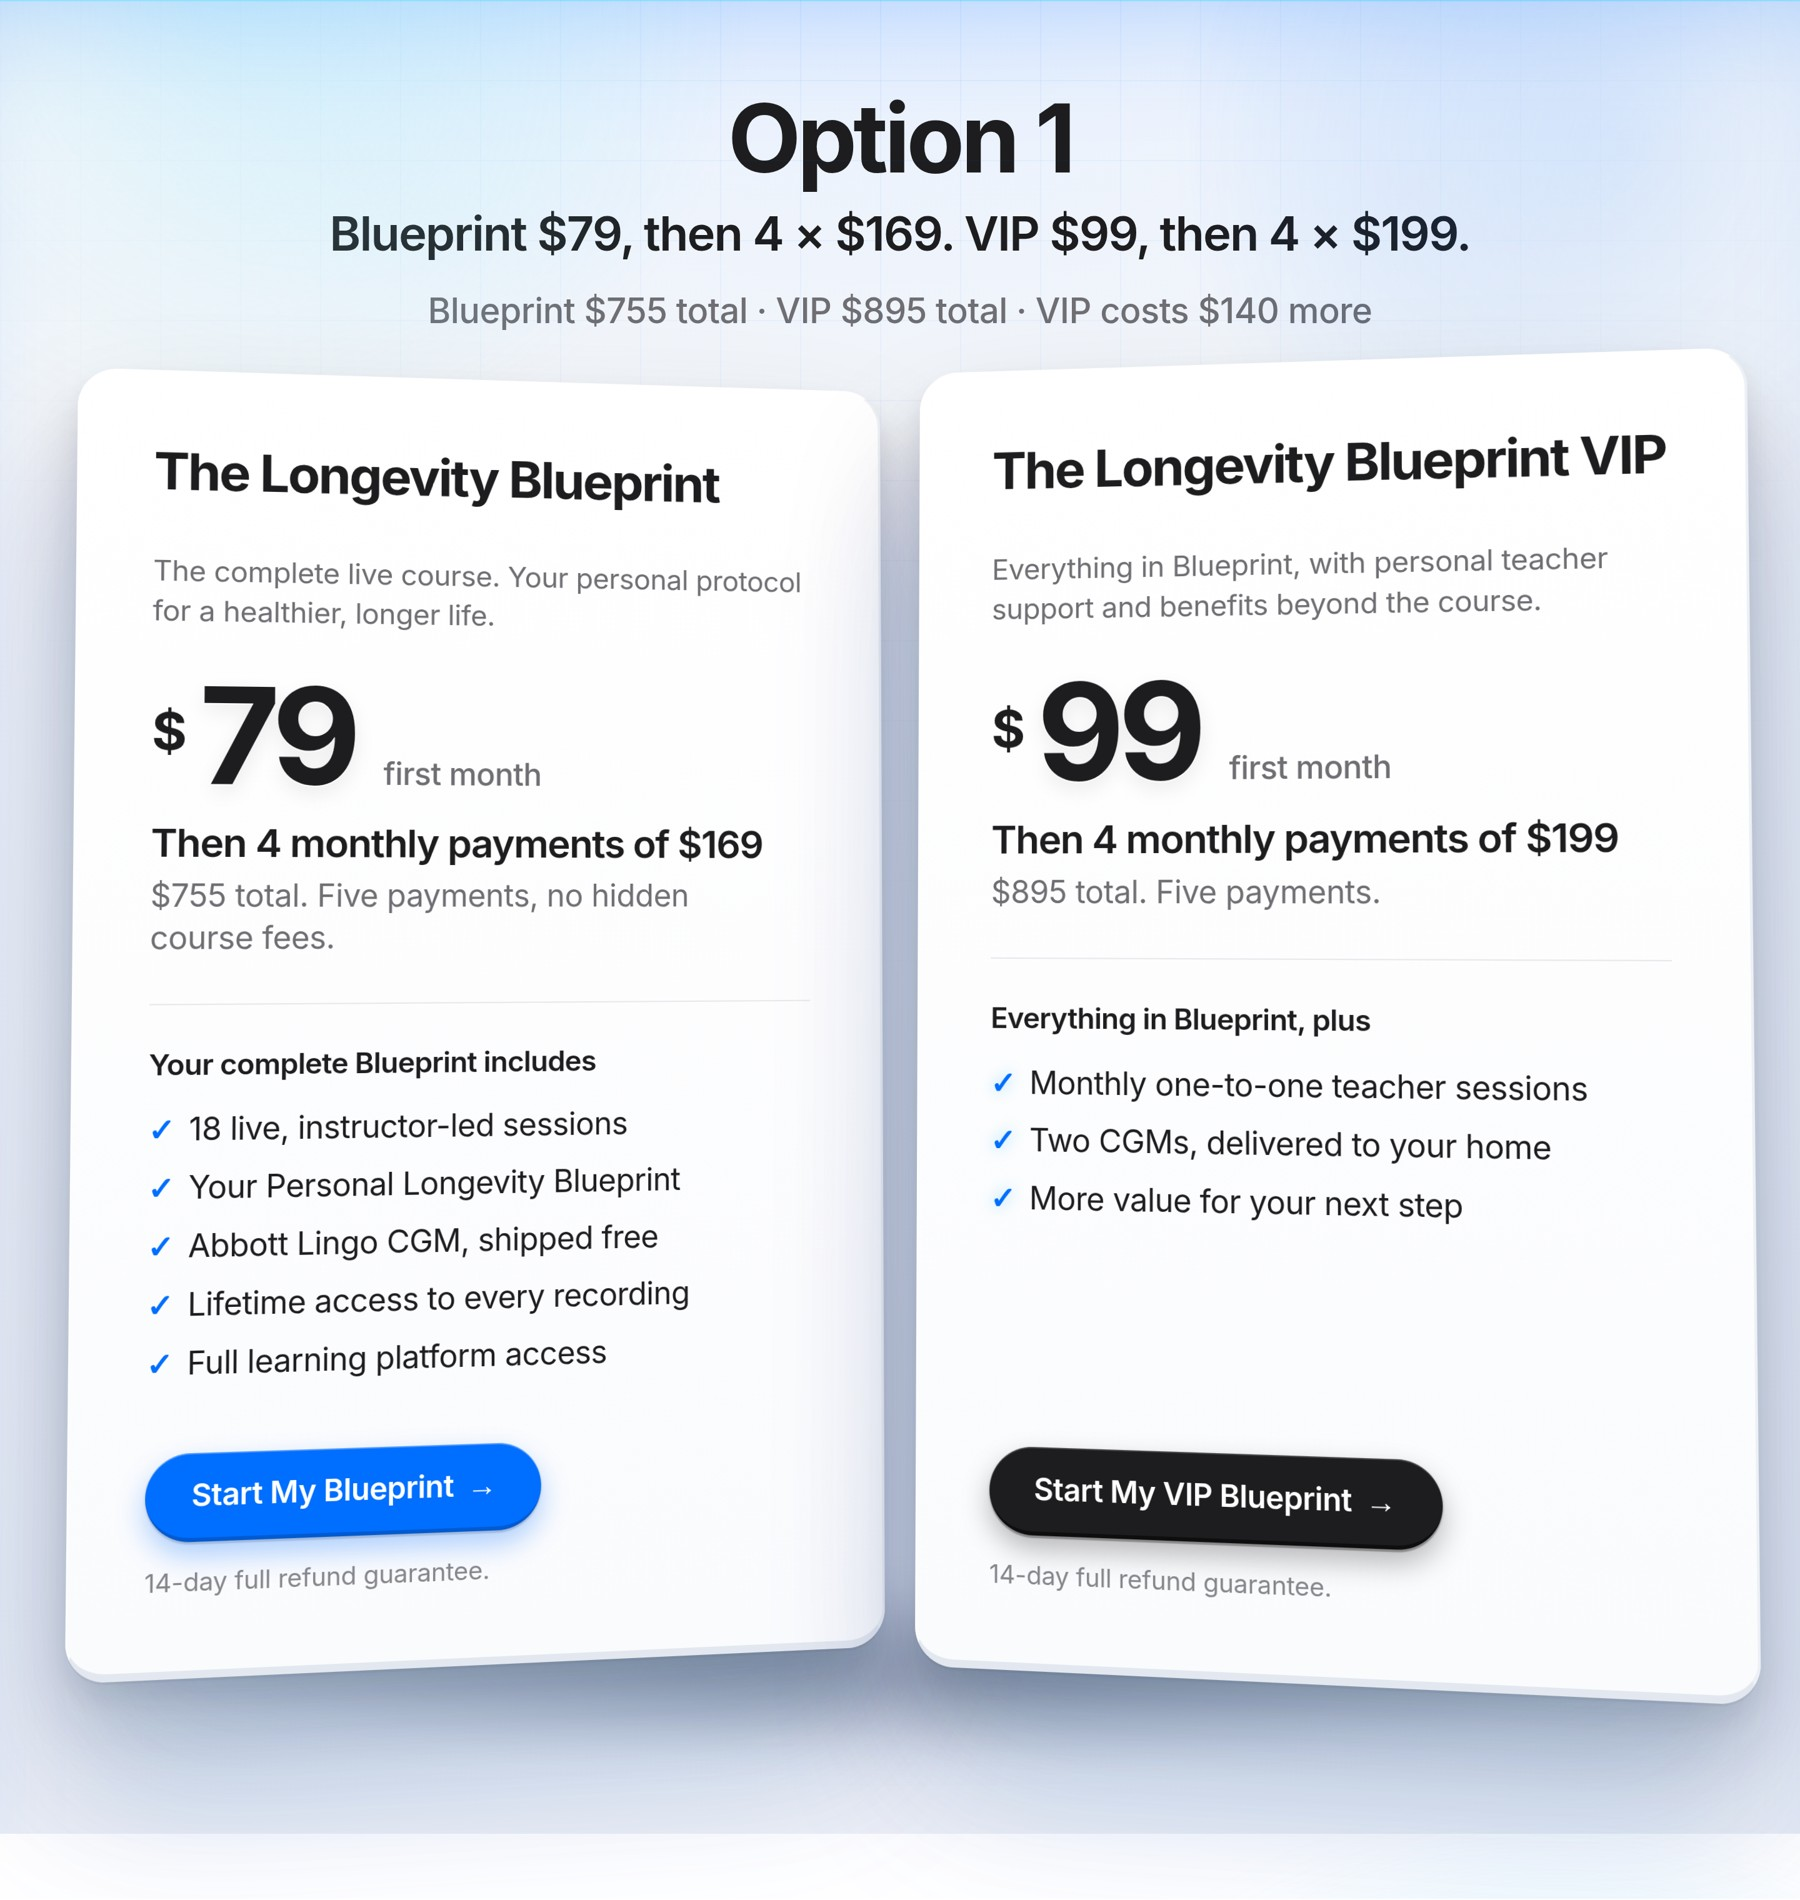
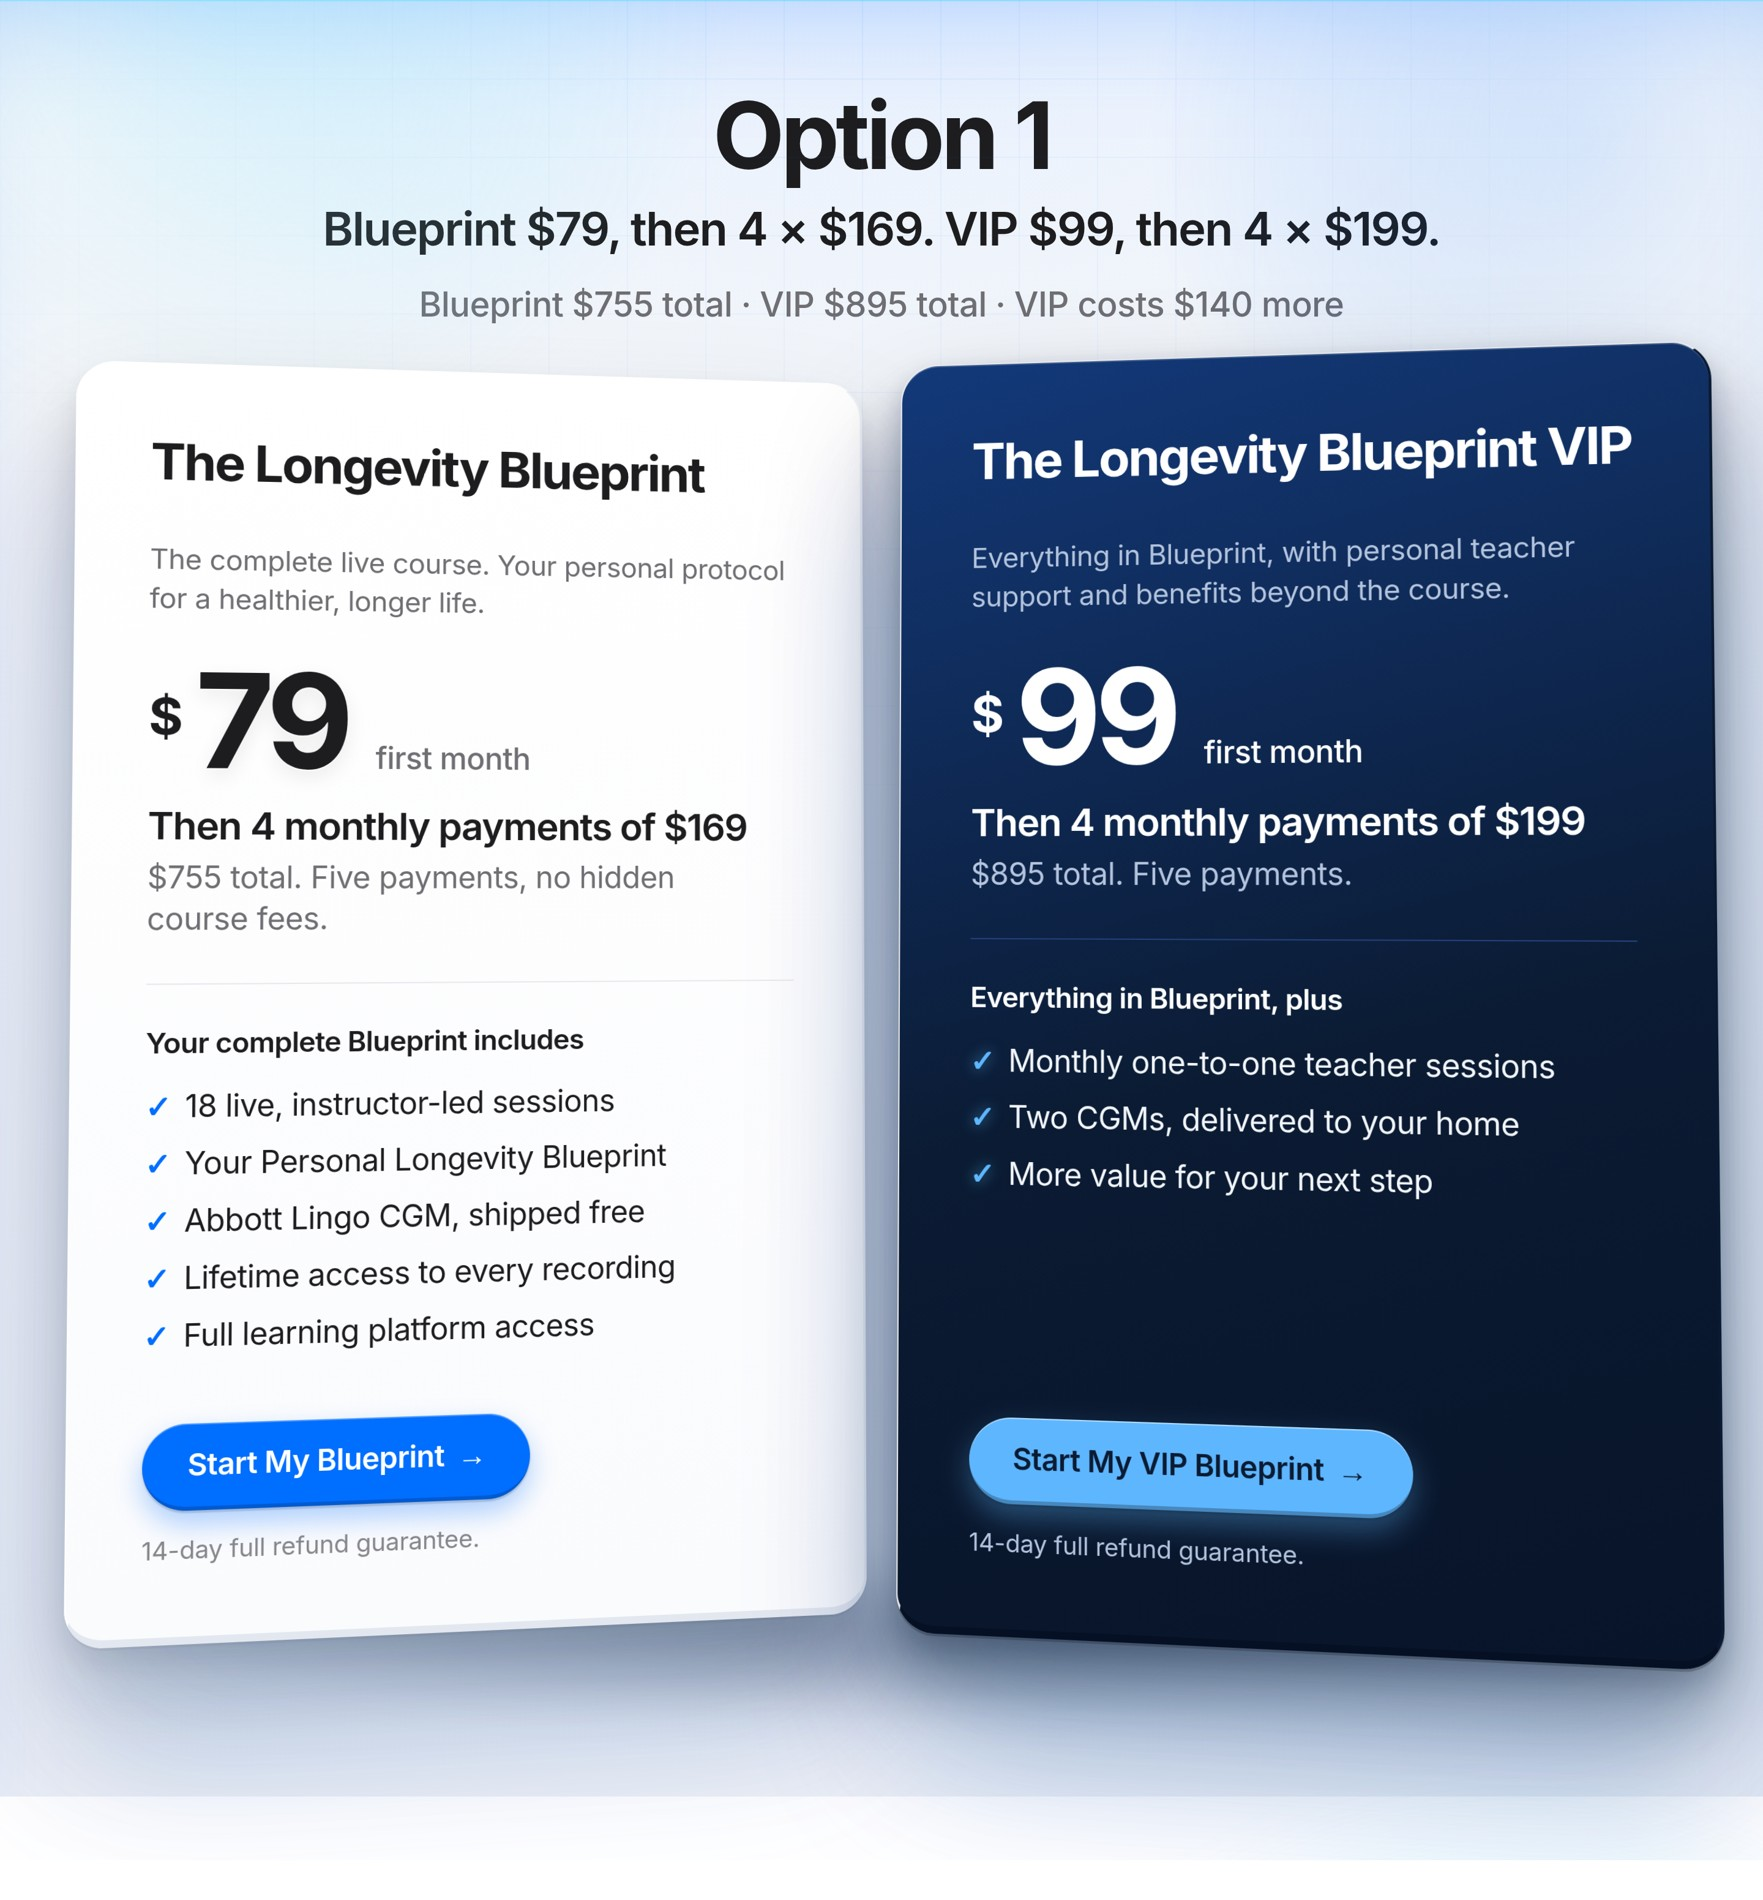
VIP card navy, Standard white, 3D kept

diff --git a/options/index.html b/options/index.html
@@ -1780,7 +1780,7 @@ body.lla-em-open #et-bumpyard-widget{display:none!important}
   html body#lpRoot #hero .pdp-cine-sub{font-family:'Inter',sans-serif!important;font-style:normal!important;text-transform:none!important}
 }
 </style>
-<link rel="stylesheet" href="../relaunch.css?v=vip199"><style id="opt-only">body>*:not(section.bp-offer):not(script):not(style){display:none!important}body>section.bp-offer{display:block!important}.bp-foot{display:none!important}.opt-sum{font-size:clamp(22px,2.2vw,30px)!important;font-weight:700;color:#0B1B33;margin:18px auto 0;text-align:center;letter-spacing:-.4px;max-width:none!important;white-space:nowrap}.bp-heading h2 em{display:block;font-size:.72em;margin-top:6px}[class^="lla-cta"],.lla-cta,#llaCta,.lla-sticky-cta,.lla-float-cta,#llaFloatCta,[id^="llaFloat"],.lla-float-cta--home{display:none!important;visibility:hidden!important}</style><link href="https://fonts.googleapis.com/css2?family=Playfair+Display:ital,wght@0,400;0,500;0,600;1,400;1,500&display=swap" rel="stylesheet"><link rel="stylesheet" href="../compare/apple.css?v=a5"></head>
+<link rel="stylesheet" href="../relaunch.css?v=vip199"><style id="opt-only">body>*:not(section.bp-offer):not(script):not(style){display:none!important}body>section.bp-offer{display:block!important}.bp-foot{display:none!important}.opt-sum{font-size:clamp(22px,2.2vw,30px)!important;font-weight:700;color:#0B1B33;margin:18px auto 0;text-align:center;letter-spacing:-.4px;max-width:none!important;white-space:nowrap}.bp-heading h2 em{display:block;font-size:.72em;margin-top:6px}[class^="lla-cta"],.lla-cta,#llaCta,.lla-sticky-cta,.lla-float-cta,#llaFloatCta,[id^="llaFloat"],.lla-float-cta--home{display:none!important;visibility:hidden!important}</style><link href="https://fonts.googleapis.com/css2?family=Playfair+Display:ital,wght@0,400;0,500;0,600;1,400;1,500&display=swap" rel="stylesheet"><link rel="stylesheet" href="../compare/apple.css?v=a6"></head>
 <body id="lpRoot">
 <!-- Google Tag Manager (noscript) -->
 

diff --git a/compare/apple.css b/compare/apple.css
@@ -73,3 +73,18 @@
 #lpRoot .bp-offer{padding-bottom:150px!important}
 #lpRoot .bp-card .bp-button{border-bottom:3px solid rgba(0,0,0,.18)!important}
 #lpRoot .bp-card.bp-vip .bp-button{border-bottom:3px solid rgba(0,0,0,.5)!important}
+/* a6: VIP in navy */
+#lpRoot .bp-card.bp-vip{background:linear-gradient(165deg,#13397A 0%,#0B1B33 55%,#081429 100%)!important;border-bottom:6px solid #061024!important;border-right:2px solid #0A1A33!important;box-shadow:
+  inset 0 1px 0 rgba(255,255,255,.18),
+  0 2px 0 rgba(0,0,0,.2),
+  0 10px 20px rgba(11,27,51,.2),
+  0 30px 50px rgba(11,27,51,.28),
+  0 60px 110px rgba(11,27,51,.30),
+  0 100px 160px rgba(0,110,255,.18)!important}
+#lpRoot .bp-card.bp-vip h3,#lpRoot .bp-card.bp-vip .bp-price,#lpRoot .bp-card.bp-vip .bp-price sup,#lpRoot .bp-card.bp-vip .bp-price strong,#lpRoot .bp-card.bp-vip .bp-follow,#lpRoot .bp-card.bp-vip .bp-included{color:#FFFFFF!important;-webkit-text-fill-color:#FFFFFF!important;text-shadow:none!important}
+#lpRoot .bp-card.bp-vip .bp-desc,#lpRoot .bp-card.bp-vip .bp-price span,#lpRoot .bp-card.bp-vip .bp-total,#lpRoot .bp-card.bp-vip .bp-guarantee{color:#B4C4DE!important}
+#lpRoot .bp-card.bp-vip .bp-features li,#lpRoot .bp-card.bp-vip .bp-features li b,#lpRoot .bp-card.bp-vip .bp-features li strong{color:#F2F6FC!important}
+#lpRoot .bp-card.bp-vip .bp-features li::before,#lpRoot .bp-card.bp-vip .bp-features li svg{color:#5EB6FF!important;fill:#5EB6FF!important}
+#lpRoot .bp-card.bp-vip .bp-rule{background:#24407A!important}
+#lpRoot .bp-card.bp-vip .bp-button{background:#5EB6FF!important;color:#0B1B33!important;border-bottom:3px solid rgba(0,0,0,.25)!important;box-shadow:0 1px 2px rgba(0,0,0,.2),0 10px 22px rgba(94,182,255,.35),inset 0 1px 0 rgba(255,255,255,.5)!important}
+#lpRoot .bp-card:not(.bp-vip) .bp-button{background:#006EFF!important;color:#fff!important}

diff --git a/compare/index.html b/compare/index.html
@@ -1,4 +1,4 @@
 <!doctype html><html lang="en"><head><meta charset="utf-8"><meta name="viewport" content="width=device-width,initial-scale=1"><meta name="robots" content="noindex"><title>Blueprint VIP pricing · 3 options</title>
 <style>body{margin:0;background:#F3F7FC;font-family:-apple-system,Inter,sans-serif;color:#0B1B33}.w{max-width:1100px;margin:0 auto;padding:16px 10px 40px}h1{font-size:22px;margin:6px 6px 14px;letter-spacing:-.3px}img{width:100%;display:block;border-radius:14px;box-shadow:0 6px 24px rgba(11,27,51,.12);margin-bottom:18px;background:#fff}</style></head>
 <body><div class="w"><h1>Blueprint VIP pricing · 3 options</h1>
-<img src="option-1.jpg?v=17" alt="Option 1: VIP $99, then 4 × $199"><img src="option-2.jpg?v=17" alt="Option 2: VIP $129, then 4 × $229"><img src="option-3.jpg?v=17" alt="Option 3: VIP $99, then 4 × $229"></div></body></html>
+<img src="option-1.jpg?v=18" alt="Option 1: VIP $99, then 4 × $199"><img src="option-2.jpg?v=18" alt="Option 2: VIP $129, then 4 × $229"><img src="option-3.jpg?v=18" alt="Option 3: VIP $99, then 4 × $229"></div></body></html>
